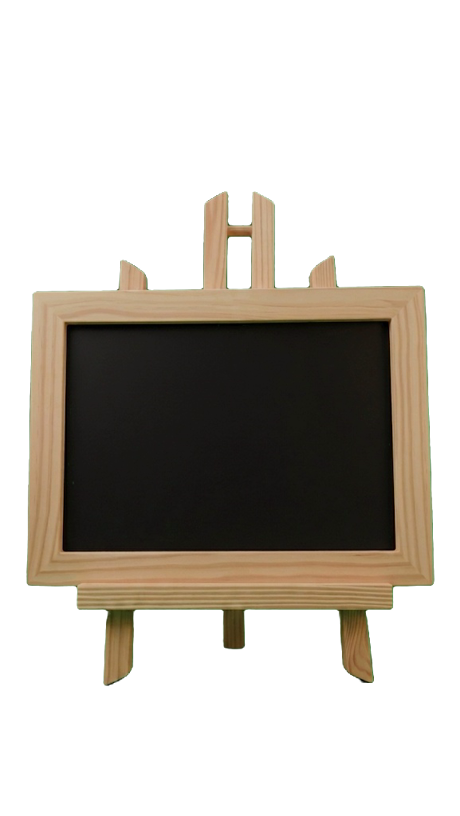
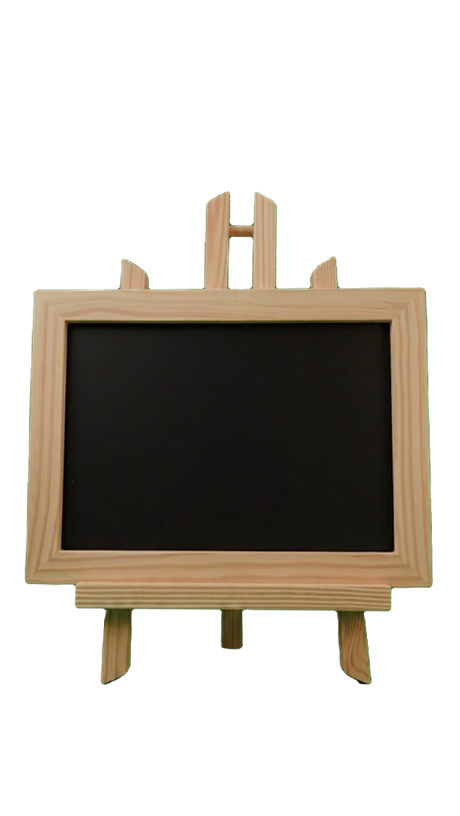
칠판 표지 화면 버그 수정 3건
- 좌우 쏠림 버그 수정: 칠판 wrap 폭 계산에 94vw를 쓰면서 표지 화면 좌우 패딩(20px×2)을
  안 빼서 우측으로 삐져나가던 문제 — 부모 기준 100%로 교체해 항상 정확히 중앙 정렬
- 칠판 이미지 자체가 약 0.5도 기울어져 있던 것을 픽셀 측정 후 반대로 회전시켜 수평 보정
- 글로우를 우주 밤하늘 톤으로 바꾸고, 있는 듯 없는 듯한 정도로 투명도 대폭 낮춤

Claude-Session: https://claude.ai/code/session_011v3serhFzzzda2HE1Zcb8d

diff --git a/style.css b/style.css
@@ -222,10 +222,14 @@ button:active { transform: scale(0.94); }
    PNG 실제 비율로 wrap을 고정하고, 버튼/장식은 칠판 검은 면 안에 %로 앉힌다 — 화면 크기가
    달라져도 항상 칠판 안쪽에 위치.
    2026-08-23(13): "휴대폰에서 꽉차게" 요청으로 폭을 74vw→94vw로 확대, "글자 빼고 아이콘만
-   크게" 요청으로 텍스트 라벨(.chalk-label) 대신 이미지 아이콘 버튼(.chalk-icon-btn)으로 교체. */
+   크게" 요청으로 텍스트 라벨(.chalk-label) 대신 이미지 아이콘 버튼(.chalk-icon-btn)으로 교체.
+   2026-08-23(25): "칠판이 우측으로 치우쳐 보인다" 버그 — 94vw는 표지 화면 좌우 패딩(20px×2,
+   .cover-screen)을 안 빼고 뷰포트 전체 기준으로 계산돼서, 실제 쓸 수 있는 폭(패딩 뺀 값)보다
+   넓어져 컨테이너 밖으로 삐져나가며 한쪽으로 쏠려 보였다. 부모(.cover-content)가 이미 패딩 뺀
+   폭에 꽉 채워져 있으니, vw 대신 100%(부모 기준)로 바꾸면 항상 그 안에 딱 맞아 절대 안 넘침. */
 .cover-chalkboard-wrap {
   position: relative;
-  width: min(460px, 94vw);
+  width: min(460px, 100%);
   aspect-ratio: 460 / 816;
   margin: 0 auto;
 }
@@ -236,8 +240,10 @@ button:active { transform: scale(0.94); }
    2026-08-23(22): "외곽선이 안 보인다 + 우주 밤하늘 색으로" 요청 — 옅은 크림색은 밝은 배경과
    대비가 약해 거의 안 보였음. 진한 남보라(우주 밤하늘 톤)로 바꾸고 두께도 살짝 키움. 글로우도
    같은 톤으로 2겹(안쪽 선명한 보라 + 바깥쪽 넓게 퍼지는 남색)으로 밤하늘 느낌을 냄. */
-/* 2026-08-23(23): "밝아졌다 안밝아졌다 해야하는거 아니냐" 요청 — 글로우 두 겹(블러/투명도)만
-   숨쉬듯 커졌다 작아졌다 하게 애니메이션(테두리선·그림자는 고정, 글로우만 움직임). */
+/* 2026-08-23(23): "밝아졌다 안밝아졌다" 요청 — 글로우 두 겹(블러/투명도)만 숨쉬듯 커졌다
+   작아졌다 하게 애니메이션(테두리선·그림자는 고정, 글로우만 움직임).
+   2026-08-23(24): "색깔 더 연하게, 있는둥 없는둥" 요청 — 투명도를 확 낮춰서 있는 듯 없는 듯한
+   정도로. */
 .cover-chalkboard-img {
   width: 100%;
   height: 100%;
@@ -248,22 +254,22 @@ button:active { transform: scale(0.94); }
   0%, 100% {
     filter:
       drop-shadow(0 10px 18px rgba(0, 0, 0, 0.25))
-      drop-shadow(2px 0 0 #2D1B69)
-      drop-shadow(-2px 0 0 #2D1B69)
-      drop-shadow(0 2px 0 #2D1B69)
-      drop-shadow(0 -2px 0 #2D1B69)
-      drop-shadow(0 0 14px rgba(108, 92, 231, 0.8))
-      drop-shadow(0 0 30px rgba(45, 27, 105, 0.6));
+      drop-shadow(2px 0 0 rgba(45, 27, 105, 0.35))
+      drop-shadow(-2px 0 0 rgba(45, 27, 105, 0.35))
+      drop-shadow(0 2px 0 rgba(45, 27, 105, 0.35))
+      drop-shadow(0 -2px 0 rgba(45, 27, 105, 0.35))
+      drop-shadow(0 0 14px rgba(108, 92, 231, 0.08))
+      drop-shadow(0 0 30px rgba(45, 27, 105, 0.05));
   }
   50% {
     filter:
       drop-shadow(0 10px 18px rgba(0, 0, 0, 0.25))
-      drop-shadow(2px 0 0 #2D1B69)
-      drop-shadow(-2px 0 0 #2D1B69)
-      drop-shadow(0 2px 0 #2D1B69)
-      drop-shadow(0 -2px 0 #2D1B69)
-      drop-shadow(0 0 24px rgba(108, 92, 231, 1))
-      drop-shadow(0 0 46px rgba(45, 27, 105, 0.85));
+      drop-shadow(2px 0 0 rgba(45, 27, 105, 0.35))
+      drop-shadow(-2px 0 0 rgba(45, 27, 105, 0.35))
+      drop-shadow(0 2px 0 rgba(45, 27, 105, 0.35))
+      drop-shadow(0 -2px 0 rgba(45, 27, 105, 0.35))
+      drop-shadow(0 0 24px rgba(108, 92, 231, 0.18))
+      drop-shadow(0 0 46px rgba(45, 27, 105, 0.12));
   }
 }
 .chalk-icon-btn {

diff --git a/sw.js b/sw.js
@@ -1,4 +1,4 @@
-const CACHE_NAME = 'coloring-app-v289';
+const CACHE_NAME = 'coloring-app-v293';
 // 2026-08-11: cache.addAll()은 원자적이라 목록 중 하나라도 못 받아오면 설치 전체가 실패한다.
 // boss-battle 배경음악(6.8MB, 다른 음악의 10배 이상 큼)이 이 목록에 있으면 네트워크가 조금만
 // 불안정해도 그 파일 하나 때문에 서비스워커 설치 자체가 실패해서 앱 전체가 계속 낡은 캐시에
